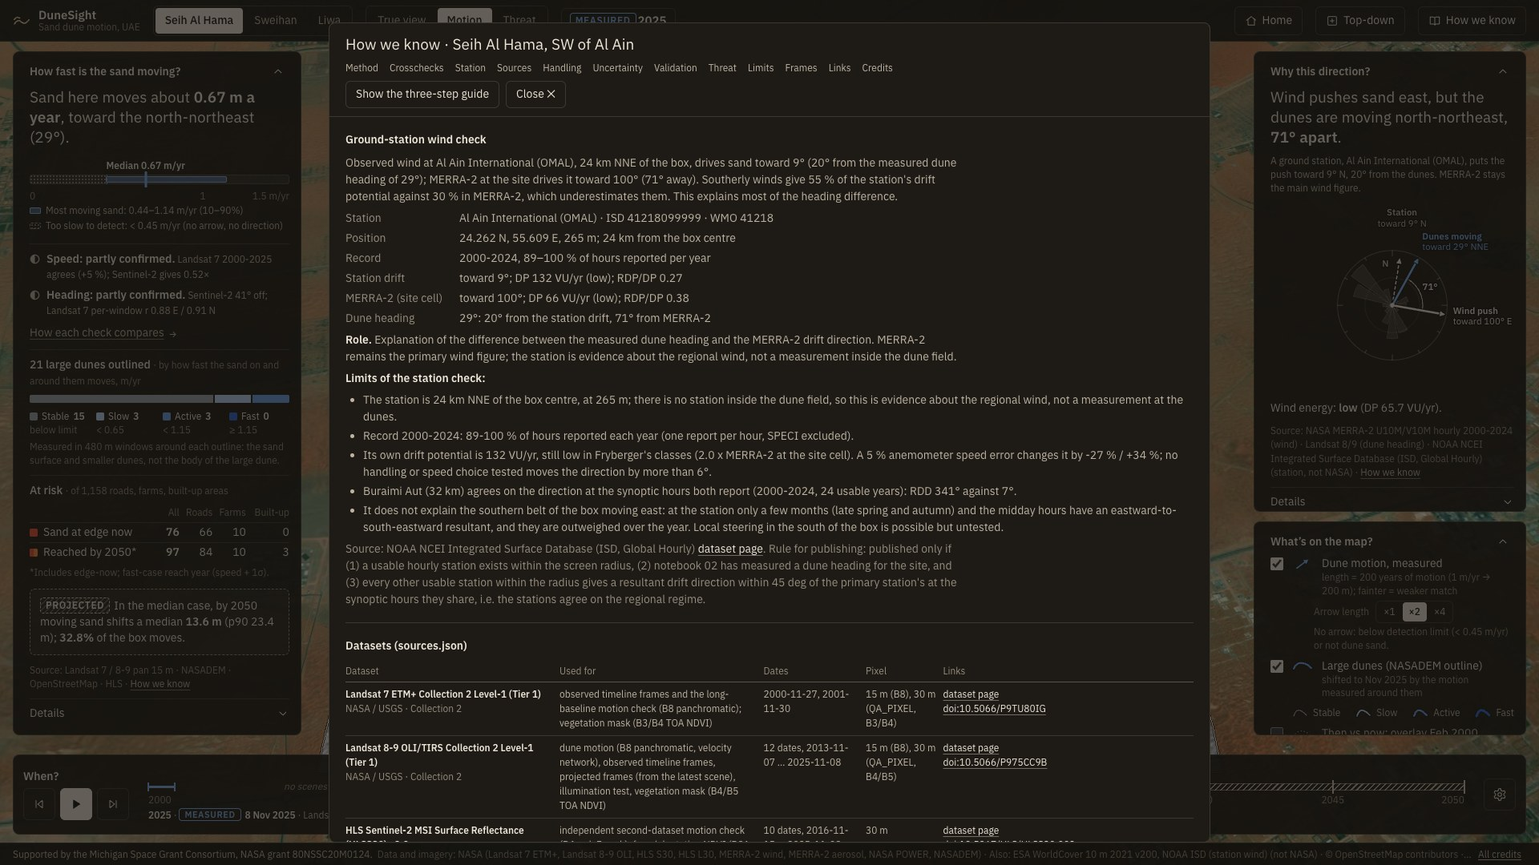
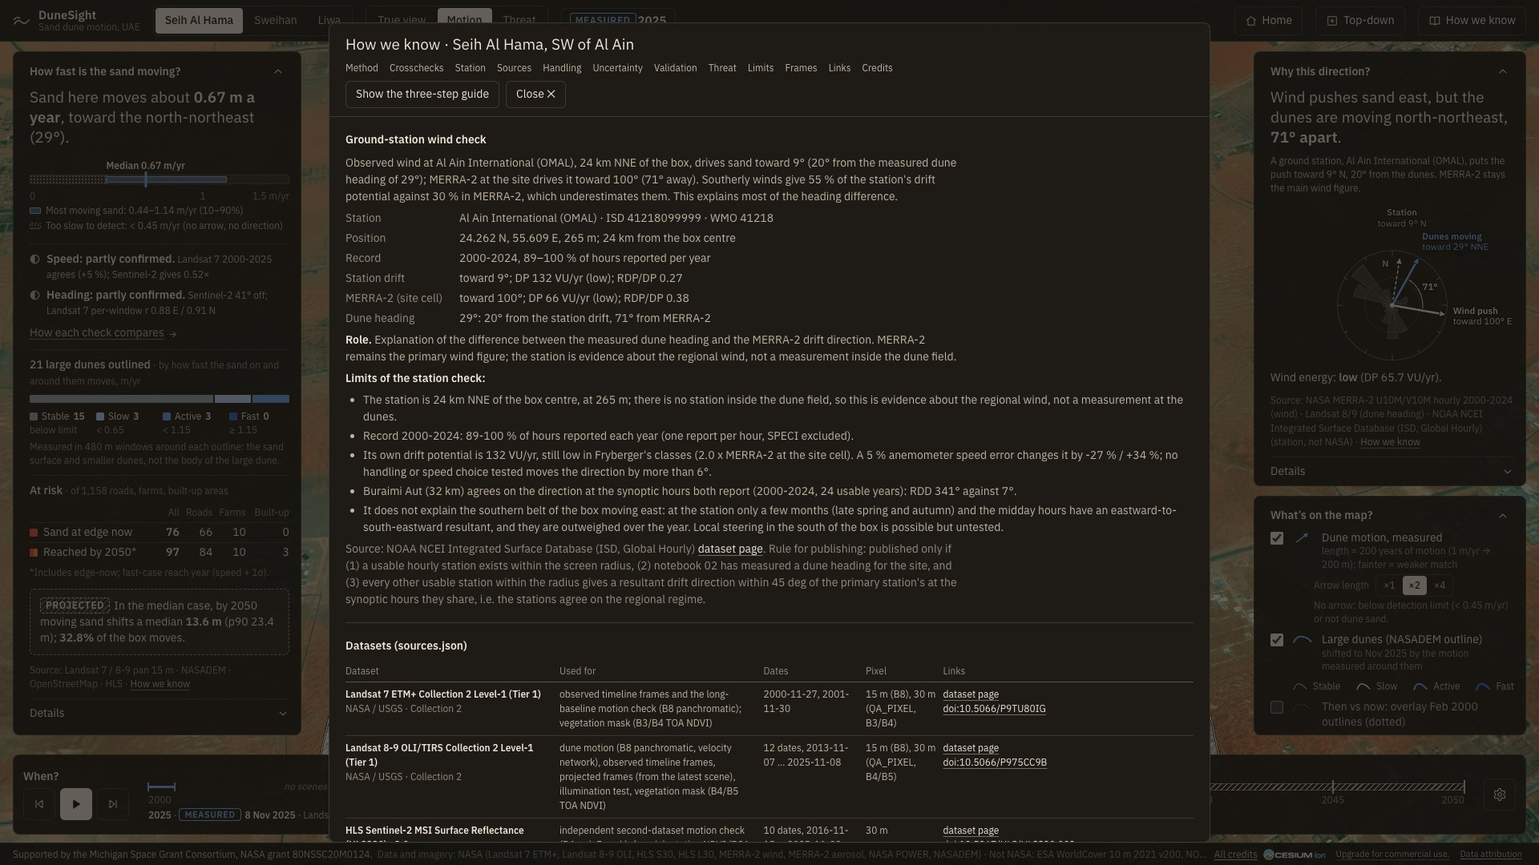
Show map-provider credits; reached list scrolls under a fixed heading; arrow scale from what is drawn
- Credits: the stylesheet hid Cesium's own credit element (.cesium-widget-credits), so the
  Cesium ion logo, imagery attribution and 'Data attribution' link were 0x0. They now sit
  in the footer and never shrink (the dataset list truncates), the attribution lightbox
  opens above the UI, and the phone footer grows to fit them. Tests check the ion logo and
  link are visible at 1920x1080, 1366x768 and 390x844 and the Esri text on the fallback.
- Reached panel: heading, lead and filters stay fixed, only the list scrolls; at least four
  rows at 1080p and two at 768p with a card open (tested).
- Arrow scale: opens at the largest of x1/x2/x4 at which a 90th-percentile arrow fits the
  240 m arrow spacing (x2 Seih Al Hama, x1 Sweihan and Liwa); was a rule on the median speed.
- Compass drawing trimmed to its content (no gap above it at Liwa).
- Footer: 'Not NASA: ESA WorldCover ..., NOAA ISD station wind' instead of doubled brackets.
- Screenshots retaken; As built and explain-it updated.

Changed region(s): [[0.8125, 0.4278, 1.0, 0.8556], [0.75, 0.9778, 1.0, 1.0], [0.6562, 0.9778, 0.6875, 1.0]]

diff --git a/tests/e2e/acceptance.spec.js b/tests/e2e/acceptance.spec.js
@@ -489,7 +489,8 @@ test('10 · dossier lists every source with links and the full limits; credits l
     const credits = await page.locator('.ds-credit-data').innerText();
     const nasaPart = (credits.match(/NASA \(([^)]*)\)/) || [])[1] || '';
     expect(nasaPart).not.toMatch(/WorldCover|NOAA|OpenStreetMap|ESA/);
-    for (const s of d.sources.filter((x) => /not NASA/.test(x.provider || ''))) expect(credits).toMatch(new RegExp(`Also: [^·]*${s.name.split(' ')[0]}[^·]*\\(not NASA\\)`));
+    for (const s of d.sources.filter((x) => /not NASA/.test(x.provider || ''))) expect(credits).toMatch(new RegExp(`Not NASA: [^·]*${s.name.split(' ')[0]}`));
+    expect(credits).not.toMatch(/\)\s*\(/); // no doubled brackets
   }
   await expect(page.locator('.ds-credit-line')).toHaveText(CREDIT);
   await page.click('.ds-footer [data-dossier="credits"]');
@@ -603,6 +604,52 @@ test('11 · network blocked after load: local layers, frames and fonts still dra
   await context.setOffline(false);
   const expected = /ERR_INTERNET_DISCONNECTED|Failed to load resource/;
   errors.splice(0, errors.length, ...errors.filter((e) => !expected.test(e)));
+});
+
+// map-provider credits -----------------------------------------------------------------------------
+const creditBox = (page) =>
+  page.evaluate(() => {
+    const vis = (el) => {
+      if (!el) return null;
+      const r = el.getBoundingClientRect();
+      const inView = r.width > 0 && r.height > 0 && r.left >= 0 && r.top >= 0 && r.right <= innerWidth + 0.5 && r.bottom <= innerHeight + 0.5;
+      const hit = inView && document.elementFromPoint(r.left + r.width / 2, r.top + r.height / 2);
+      return { w: r.width, h: r.height, inView, onTop: !!hit && (hit === el || el.contains(hit) || hit.contains(el)) };
+    };
+    const c = document.querySelector('#cesium-credits');
+    const logo = [...c.querySelectorAll('img')].find((i) => /ion/i.test(i.src + i.title)) || null;
+    return { box: vis(c), logo: logo && { ...vis(logo), loaded: logo.complete && logo.naturalWidth > 0 }, text: c.innerText, link: vis(c.querySelector('.cesium-credit-expand-link')) };
+  });
+for (const [w, h] of [[1920, 1080], [1366, 768], [390, 844]]) {
+  test(`credits: Cesium ion logo and data attribution visible at ${w}×${h}`, async ({ page }) => {
+    await page.setViewportSize({ width: w, height: h });
+    await boot(page);
+    const bm = await page.evaluate(() => window.__ds.basemap());
+    test.skip(!/ion/i.test(bm.basemap), 'no Cesium ion token in this environment');
+    await expect.poll(async () => (await creditBox(page)).logo?.loaded, { message: 'ion logo loaded' }).toBe(true);
+    const c = await creditBox(page);
+    console.log(`    credit area ${w}×${h}: ${Math.round(c.box.w)}×${Math.round(c.box.h)} px, logo ${Math.round(c.logo.w)}×${Math.round(c.logo.h)} px`);
+    expect(c.box.inView && c.box.w > 0 && c.box.h > 0).toBe(true);
+    expect(c.logo.inView && c.logo.onTop && c.logo.w > 20 && c.logo.h > 8).toBe(true);
+    expect(c.link?.inView && c.link.onTop).toBe(true);
+    // the provider attribution list opens above the UI
+    await page.click('#cesium-credits .cesium-credit-expand-link');
+    const overlay = page.locator('.cesium-credit-lightbox-overlay');
+    await expect(overlay).toBeVisible();
+    expect(await page.evaluate(() => document.elementFromPoint(innerWidth / 2, innerHeight / 2)?.closest('.cesium-credit-lightbox-overlay') != null)).toBe(true);
+  });
+}
+test('credits: Esri attribution visible on the fallback basemap (no token), desktop and phone', async ({ page }) => {
+  for (const [w, h] of [[1366, 768], [390, 844]]) {
+    await page.setViewportSize({ width: w, height: h });
+    await boot(page, { url: process.env.E2E_NOTOKEN_URL || 'http://localhost:5174/' });
+    await expect.poll(async () => (await creditBox(page)).text).toContain('Esri');
+    const c = await creditBox(page);
+    console.log(`    Esri credit ${w}×${h}: ${Math.round(c.box.w)}×${Math.round(c.box.h)} px`);
+    expect(c.box.inView && c.box.onTop).toBe(true);
+    // the whole attribution line is shown, not clipped
+    expect(await page.locator('#cesium-credits').evaluate((el) => el.scrollWidth <= el.clientWidth + 1 && el.scrollHeight <= el.clientHeight + 1)).toBe(true);
+  }
 });
 
 // fonts -------------------------------------------------------------------------------------------
@@ -725,8 +772,18 @@ for (const [w, h] of [
     await page.setViewportSize({ width: w, height: h });
     await boot(page);
     await setMode(page, 'threat');
-    await page.locator('.ds-rlist [data-target]').first().click(); // opens a target card too
+    await page.locator('.ds-rlist [data-target]').nth(2).click(); // opens a target card too
     await expect(page.locator(CARD)).toBeVisible();
+    // the reached panel keeps its heading in view (only the list scrolls) and shows several rows
+    const rp = await page.evaluate(() => {
+      const p = document.querySelector('.ds-panel--reached').getBoundingClientRect();
+      const hd = document.querySelector('.ds-panel--reached h2').getBoundingClientRect();
+      const list = document.querySelector('.ds-panel--reached .ds-rlist').getBoundingClientRect();
+      const rows = [...document.querySelectorAll('.ds-rlist li')].filter((li) => { const r = li.getBoundingClientRect(); return r.top >= list.top - 1 && r.bottom <= list.bottom + 1; }).length;
+      return { headIn: hd.top >= p.top && hd.bottom <= p.bottom, rows };
+    });
+    expect(rp.headIn, 'reached panel heading visible').toBe(true);
+    expect(rp.rows, 'rows fully visible in the reached list').toBeGreaterThanOrEqual(h >= 1000 ? 4 : 2);
     await page.waitForTimeout(500);
     const rects = await page.evaluate(() =>
       ['.ds-header', '.ds-panel--speed', '.ds-panel--reached', '.ds-panel--card', '.ds-panel--legend', '.ds-timeline', '.ds-footer']

diff --git a/src/ui/ui.css b/src/ui/ui.css
@@ -248,7 +248,7 @@
 .ds-footer > span { overflow: hidden; text-overflow: ellipsis; }
 .ds-credit-line { flex: 0 0 auto; color: var(--ds-text-2); }
 .ds-credit-data { flex: 1 1 auto; min-width: 0; }
-.ds-cesium-credits { flex: 0 0 auto; max-width: 28%; display: flex; }
+.ds-cesium-credits { flex: 0 0 auto; display: flex; } /* never shrinks: provider attribution must stay visible */
 .ds-footer button { flex: 0 0 auto; padding: 0; border: 0; background: none; font-size: 12px; color: var(--ds-text-2); text-decoration: underline; text-underline-offset: 2px; }
 
 /* ---------- First-visit guide ---------- */
@@ -365,7 +365,13 @@
 /* threat mode: ranked list of reached places replaces the wind panel */
 .ds-ui[data-mode="threat"] .ds-panel--wind, .ds-ui:not([data-mode="threat"]) .ds-panel--reached { display: none; }
 .ds-right > [data-reached-slot] { display: contents; }
-.ds-panel--reached { flex: 1 1 260px !important; min-height: 230px !important; }
+/* the heading, lead and filters stay put; only the list scrolls */
+.ds-panel--reached { flex: 1 1 260px !important; min-height: 230px !important; display: flex; flex-direction: column; overflow: hidden !important; }
+.ds-panel--reached > .ds-pbody { flex: 1 1 auto; min-height: 0; }
+.ds-panel--reached > .ds-pbody > div { display: flex; flex-direction: column; }
+.ds-panel--reached .ds-rlist { flex: 1 1 auto; min-height: 0; overflow-y: auto; scrollbar-width: thin; margin-right: -8px; padding-right: 8px; }
+@media (max-height: 899px) and (min-width: 761px) { .ds-panel--reached { flex-basis: 320px !important; min-height: 320px !important; } .ds-panel--reached .ds-lead { font-size: var(--ds-fs-body); } }
+@media (min-height: 900px) { .ds-panel--reached { flex-basis: 500px !important; min-height: 500px !important; } }
 .ds-ui[data-mode="threat"] .ds-right > .ds-panel--legend { flex: 1 12 auto; min-height: 180px; }
 .ds-panel--reached .ds-seg--small { margin: 10px 0 6px; }
 .ds-rlist { list-style: none; padding: 0; margin: 0 0 6px; }
@@ -415,7 +421,6 @@
 
 /* phone: the card and the reached list are tabs of the sheet; the footer stays (credit line); the sheet can be lowered */
 @media (max-width: 760px) {
-  .ds-ui { --ds-footer-h: 46px; }
   .ds-when { position: absolute; left: 12px; top: calc(var(--ds-header-h) + 8px); height: 30px; background: var(--ds-panel); font-size: 14px; pointer-events: none; }
   .ds-header .ds-tag-warn { order: 4; }
   .ds-sheet { bottom: var(--ds-footer-h); height: calc(56% - var(--ds-footer-h)); }
@@ -429,12 +434,13 @@
   .ds-ui:not([data-tab="reached"]) .ds-panel--reached, .ds-ui:not([data-tab="card"]) .ds-panel--card { display: none; }
   .ds-panel--card { position: static; width: auto; max-height: none; flex: 1 1 auto; min-height: 0; overflow-y: auto; border: 0; border-radius: 0; background: transparent; padding: 14px 20px 20px; }
   .ds-panel--card .ds-phead .ds-icon-btn { display: inline-flex; }
-  .ds-panel--reached { min-height: 0 !important; }
+  .ds-panel--reached { min-height: 0 !important; overflow-y: auto !important; display: block; }
+  .ds-panel--reached .ds-rlist { overflow: visible; }
   [data-card-slot] { display: contents; }
-  .ds-footer { display: flex; flex-wrap: wrap; align-content: center; gap: 0 8px; height: var(--ds-footer-h); padding: 2px 12px; font-size: 11px; line-height: 1.3; white-space: normal; }
+  .ds-footer { display: flex; flex-wrap: wrap; align-content: center; gap: 2px 8px; height: auto; padding: 4px 12px; font-size: 11px; line-height: 1.3; white-space: normal; }
   .ds-credit-line { flex: 1 1 100%; white-space: normal; }
   .ds-credit-data { display: none; }
-  .ds-cesium-credits { max-width: 50%; }
+  .ds-cesium-credits { flex: 1 1 100%; }
   .ds-footer button { font-size: 11px; }
   .ds-lsub, .ds-lnote { padding-left: 54px; }
   .ds-range__key span { white-space: normal; }

diff --git a/src/ui/ui.js b/src/ui/ui.js
@@ -173,7 +173,7 @@ function compassSVG(w) {
     s += `<text x="${f(gx)}" y="${f(gy + 4)}" text-anchor="middle" font-size="12" font-weight="600" fill="${COL.text}" ${halo}>${w.apartDeg}°</text>`;
   }
   // grow the drawing to hold labels pushed above or below it, so they never sit on the text around the compass
-  const top = Math.min(0, ...labels.map((L) => L.box.y0 - 4)), bottom = Math.max(H, ...labels.map((L) => L.box.y1 + 4));
+  const top = Math.min(cy - R - 6, ...labels.map((L) => L.box.y0 - 4)), bottom = Math.max(cy + R + 6, ...labels.map((L) => L.box.y1 + 4));
   s = s.replace(`viewBox="0 0 ${W} ${H}"`, `viewBox="0 ${f(top)} ${W} ${f(bottom - top)}"`);
   return s + '</svg>';
 }
@@ -423,6 +423,8 @@ export function mountDuneSightUI(container, opts) {
   };
   const root = document.createElement('div');
   root.className = 'ds-ui';
+  // the footer can wrap (phone, long provider credits): the sheet and panels use its measured height
+  const footerObserver = new ResizeObserver(([e]) => root.style.setProperty('--ds-footer-h', `${Math.ceil(e.target.getBoundingClientRect().height)}px`));
   container.appendChild(root);
   const call = (name, ...args) => typeof o[name] === 'function' && o[name](...args);
 
@@ -437,7 +439,7 @@ export function mountDuneSightUI(container, opts) {
     const c = state.data.credits || {};
     return [
       c.nasa?.length ? `Data and imagery: NASA (${c.nasa.map(esc).join(', ')})` : '',
-      c.other?.length ? `Also: ${c.other.map(esc).join(', ')} (not NASA)` : '',
+      c.other?.length ? `Not NASA: ${c.other.map(esc).join(', ')}` : '',
       c.osm ? '© OpenStreetMap contributors' : '',
       state.basemap ? `Basemap: ${esc(state.basemap)}` : '',
     ].filter(Boolean).join(' · ');
@@ -489,6 +491,8 @@ export function mountDuneSightUI(container, opts) {
     root.dataset.guide = String(state.guideOpen);
     for (const k of ['speed', 'wind', 'legend']) setCollapsed(k, store.get(`dunesight-collapsed-${k}`) === '1', false);
     if (o.creditNode) root.querySelector('[data-cesium-credits]').appendChild(o.creditNode);
+    footerObserver.disconnect();
+    footerObserver.observe(root.querySelector('.ds-footer'));
     renderTabs();
     renderReached();
     renderCard();

diff --git a/src/style.css b/src/style.css
@@ -18,13 +18,22 @@ button, select, input { font: inherit; color: inherit; }
 
 #app { position: fixed; inset: 0; }
 #globe { position: absolute; inset: 0; }
-.cesium-widget-credits { display: none !important; }
-
-/* Cesium credit display, moved into the UI footer */
-#cesium-credits { display: flex; align-items: center; gap: 6px; white-space: nowrap; overflow: hidden; max-width: 100%; }
-#cesium-credits img { max-height: 14px; vertical-align: middle; opacity: 0.85; }
-#cesium-credits .cesium-credit-textContainer, #cesium-credits .cesium-credit-expand-link { font-size: 11px; }
-#cesium-credits a { color: var(--ds-text-3); }
+/* Map-provider credits (Cesium ion logo, imagery attribution, "Data attribution" link) as Cesium emits them, moved into
+   the UI footer. They must stay visible: the footer truncates the dataset list, never these. Cesium names the element it
+   creates in our container .cesium-widget-credits, so that class must not be hidden. */
+#cesium-credits { display: flex; align-items: center; white-space: nowrap; }
+#cesium-credits .cesium-widget-credits { display: flex !important; align-items: center; gap: 8px; position: static; }
+#cesium-credits .cesium-credit-logoContainer, #cesium-credits .cesium-credit-textContainer { display: inline-flex !important; align-items: center; gap: 6px; }
+#cesium-credits img { height: 16px; width: auto; vertical-align: middle; }
+#cesium-credits .cesium-credit-textContainer, #cesium-credits .cesium-credit-expand-link { font-size: 11px; color: var(--ds-text-2); }
+#cesium-credits a { color: var(--ds-text-2); }
+#cesium-credits .cesium-credit-expand-link { text-decoration: underline; text-underline-offset: 2px; cursor: pointer; }
+/* the "Data attribution" lightbox opens above the UI */
+#cesium-credits-lightbox { position: fixed; inset: 0; z-index: 70; pointer-events: none; }
+#cesium-credits-lightbox > * { pointer-events: auto; }
+@media (max-width: 760px) {
+  #cesium-credits, #cesium-credits .cesium-widget-credits, #cesium-credits .cesium-credit-textContainer { white-space: normal; flex-wrap: wrap; }
+}
 
 /* ---------- toasts ---------- */
 .ds-toast {

diff --git a/src/layers/vectors.js b/src/layers/vectors.js
@@ -7,10 +7,17 @@ import { qualityAlpha, whenReady, setInstanceColor, fillPrimitive, lineInstance,
 /** Arrow length in metres per 1 m/yr of speed at factor 1: the arrow shows 100 years of motion. */
 export const ARROW_YEARS = 100;
 
-/** Default arrow-scale factor for a site: slow fields get ×2 (200 yr of motion) so arrows stay readable. */
+/**
+ * Opening arrow-scale factor for a site, from what is drawn: the largest of ×1, ×2, ×4 at which a 90th-percentile
+ * arrow (by speed, of the arrows in vectors.geojson) is no longer than the spacing between neighbouring arrows
+ * (the note's "one point per 240 m"), so typical arrows do not run into their neighbours. Never below ×1.
+ */
 export function defaultArrowFactor(bundle) {
-  const med = bundle.summary?.speed_median_myr;
-  return Number.isFinite(med) && med >= 1.5 ? 1 : 2;
+  const speeds = (bundle.vectors?.features || []).map((f) => f.properties?.speed_myr).filter(Number.isFinite).sort((a, b) => a - b);
+  if (!speeds.length) return 1;
+  const p90 = speeds[Math.floor(0.9 * (speeds.length - 1))];
+  const spacing = +(String(bundle.vectors?.note || '').match(/one point per (\d+) m/) || [])[1] || 240;
+  return [4, 2, 1].find((f) => p90 * ARROW_YEARS * f <= spacing) || 1;
 }
 
 export function arrowOutline(lon, lat, headingDeg, lengthM) {

diff --git a/src/ui/site-data.js b/src/ui/site-data.js
@@ -69,7 +69,7 @@ export function shortSourceName(name) {
   if (/^MERRA-2/i.test(n)) return /aer/i.test(n) ? 'MERRA-2 aerosol' : 'MERRA-2 wind';
   if (/^NASA POWER/i.test(n)) return 'NASA POWER';
   if (/^NASADEM/i.test(n)) return 'NASADEM';
-  if (/^NOAA Integrated Surface/i.test(n)) return 'NOAA ISD (station wind)';
+  if (/^NOAA Integrated Surface/i.test(n)) return 'NOAA ISD station wind';
   return n.split(' (')[0];
 }
 

diff --git a/index.html b/index.html
@@ -15,6 +15,7 @@
     </div>
     <!-- Cesium writes its credits here; the UI moves this node into its footer. -->
     <div id="cesium-credits"></div>
+    <div id="cesium-credits-lightbox"></div>
 
     <div id="basemap-note" class="ds-toast" role="status" hidden></div>
     <div id="error-note" class="ds-toast ds-toast--error" role="alert" hidden></div>

diff --git a/docs/build-spec.md b/docs/build-spec.md
@@ -164,11 +164,12 @@ Where the app deliberately differs from this spec, and why:
 - **Cross-check line.** Not in the spec: the speed panel shows, under the speed, whether speed and heading are confirmed by an independent check (`summary.confirmation`, written by notebook 03 from notebook 02's QC), and the dossier has a "Cross-checks" table. Requested after the Liwa re-measurement.
 - **Dossier opening.** The dossier opens with the panel text of `docs/how-we-know.md` (imported from that file at build time, so the two cannot drift), then a per-site plain-language method composed from the data, then cross-checks and the ground-station section.
 - **Dune labels.** Labels are decluttered in screen space: where outlines cluster (e.g. Seih Al Hama D008–D011), the lower-priority label (non-threat, lower dune) is hidden until the view is close enough for it to fit.
-- **Arrow scale.** Sites with a median speed under 1.5 m/yr open at ×2 (arrow = 200 years of motion); the legend always states the factor.
+- **Arrow scale.** Each site opens at the largest of ×1, ×2, ×4 (×1 = an arrow 100 m long per 1 m/yr) at which a 90th-percentile arrow, by speed among the arrows drawn, is no longer than the spacing between neighbouring arrows (240 m, from `vectors.geojson`'s note), and never below ×1. That gives ×2 at Seih Al Hama (p90 1.17 m/yr → 234 m) and ×1 at Sweihan (1.79) and Liwa (2.26). (It replaced a rule on the site median, which opened Liwa at ×2 with overlapping arrows.) The legend always states the scale in use, and ×1/×2/×4 can be chosen there.
 - **Timeline.** Stops at every observed frame and every year from the latest scene to 2050 (so a reach year can be shown exactly); between projected frames the latest projected frame stays on screen and the label says which.
 - **Credits.** The footer separates NASA datasets from others by provider (ESA WorldCover and NOAA ISD are not listed as NASA).
 - **Redesigned interface (2026-11-15).** The dark cyan/amber HUD of section 4.1 was replaced by the user's "field survey instrument" design (`src/ui/`: warm charcoal, IBM Plex Sans, one plain-English sentence leading each panel, a first-visit guide, a phone bottom sheet). Its colour rule replaces the colours of sections 4.3 and 4.6: measured motion is one blue (arrow speed is shown by length and in the card, no longer by a colour ramp), projected is stone with a dashed edge or hatch (projected frames are tinted stone, not amber, the study-area edge turns dashed and a PROJECTED tag sits on the map), threat classes are a warm ramp (the "possible" class dashed), dune classes a cool ramp with widths, and every map line has a dark casing. Legend checkboxes switch each layer on and off per mode, including each threat class. Modes keep their meaning but follow the design's presets: True view opens with the image and the study box only (dunes, arrows, targets and the exposed marking are one click away), Motion hides the targets, Threat dims the dunes and keeps the arrows near reached targets. Where the design had no place for an existing feature it was added in the same style: the ranked list of reached targets replaces the wind panel in Threat mode; the selection card is its own column (a tab on a phone); the arrow-length scale, "exposed to blowing sand" and then-vs-now are legend rows; the hit-year rule, fast-case frame and changed pixels are in the timeline's settings; the observed/projected badge is a chip in the header; credits stay in the footer (on a phone as a two-line footer).
 - **One heading per site.** The headline used to show the vector mean of the arrows drawn on the map (37° at Seih Al Hama) while the station text and the pipeline used the field median (29°). Every heading on screen is now the pipeline's field median, read from `summary.json` `wind_agreement_note` (the only place it is published; there is no numeric field) and checked against `station_wind.json` `dune_heading_deg` where present. The arrows' vector mean appears only in the wind panel's details and the dossier, labelled as a different average. The wind-versus-dunes angle on screen is therefore 71° at Seih Al Hama (was 62°), 4° at Sweihan, 21° at Liwa; no measured value changed.
 - **Fonts.** IBM Plex is bundled (`@fontsource`, SIL OFL 1.1) instead of loaded from Google Fonts.
+- **Map-provider credits.** Cesium's credit display (the Cesium ion logo, on-screen imagery credits such as Esri's, and the "Data attribution" link whose list opens above the UI) sits in the footer and never shrinks; the dataset list truncates instead. Before this, the app's own stylesheet hid Cesium's credit element, so neither the old HUD nor the first version of the redesign showed it.
 - **Not built:** the Leaflet 2D fallback (Cesium renders the data reliably) and the optional items of section 7 (orbit track, wind streaks, swipe).
 - **Tests.** Playwright e2e against the dev server and the production build under `/dunesight/`; ports can be moved with `E2E_DEV_PORT`, `E2E_NOTOKEN_PORT`, `E2E_PROD_PORT`. Besides section 8 they check every legend checkbox in every mode, the first-visit guide, the timeline settings, the data-driven wind sentence and the single heading at all sites, the phone layout (390 × 844), that no font is requested from a third party, and that each dataset DOI resolves to its publisher's page (a bot block from that publisher counts as a pass with a logged note).

diff --git a/docs/explain-it.md b/docs/explain-it.md
@@ -32,7 +32,7 @@ One line per module, copied from the comment at the top of each file.
 ## Design choices the spec left open
 
 - **One look.** The interface is the user-supplied "field survey instrument" design (`src/ui/`): warm charcoal panels, IBM Plex Sans, one plain-English sentence leading each panel. Its colour rule holds on the map too: blue means measured motion, stone (with a dashed edge or hatch) means projected, the warm ramp means threat to a road, farm or built-up area, the cool ramp means dune class. Every map line has a dark casing underneath so it reads over bright sand, and its colour, width and dash are the legend sample's (`MAP_STYLE`).
-- **Arrow scale.** Arrow length is a stated time scale: ×1 = 100 years of motion at the measured speed (1 m/yr → 100 m). Sites whose median speed is under 1.5 m/yr open at ×2 (200 years) so the arrows are readable; the legend always prints the scale in use, and ×1/×2/×4 can be chosen there. Arrows start at the window centre (tail = where it was measured). Speed is shown by length and in the card, not by colour: all arrows are the measured blue, fainter where the match is weaker.
+- **Arrow scale.** Arrow length is a stated time scale: ×1 = 100 years of motion at the measured speed (1 m/yr → 100 m). Each site opens at the largest of ×1/×2/×4 at which a 90th-percentile arrow is no longer than the 240 m spacing between arrows (×2 at Seih Al Hama, ×1 at Sweihan and Liwa), so arrows do not run into their neighbours; the legend always prints the scale in use, and ×1/×2/×4 can be chosen there. Arrows start at the window centre (tail = where it was measured). Speed is shown by length and in the card, not by colour: all arrows are the measured blue, fainter where the match is weaker.
 - **One heading per site.** The heading shown everywhere (speed panel, compass, wind sentence) is the pipeline's field median of the windows with detected motion, which `summary.json` states in `wind_agreement_note` (and `station_wind.json` repeats as `dune_heading_deg`). The vector mean of the thinned arrows drawn on the map is a different average of the same field; it appears only in the wind panel's details and the dossier, labelled as such.
 - **Wind sentence.** The wind panel's lead is written from the data: within 20° the wind and dunes "move the same way", 20–45° they are "close, but not the same", beyond that the dunes "are moving" elsewhere. 20° is the heading tolerance of the cross-check rule in `summary.confirmation`.
 - **Timeline stops.** Every observed frame, then every year from the latest scene to 2050 (so a target's reach year can be shown exactly). Between projected frames the most recent projected frame stays on screen and the readout says which frame it is; 2026–2029 show the latest observed image and say so. Every gap between scenes is drawn as a gap: the long one labelled "no scenes 2002–2012", one-year gaps (2018, or 2016 at Liwa) dashed.
